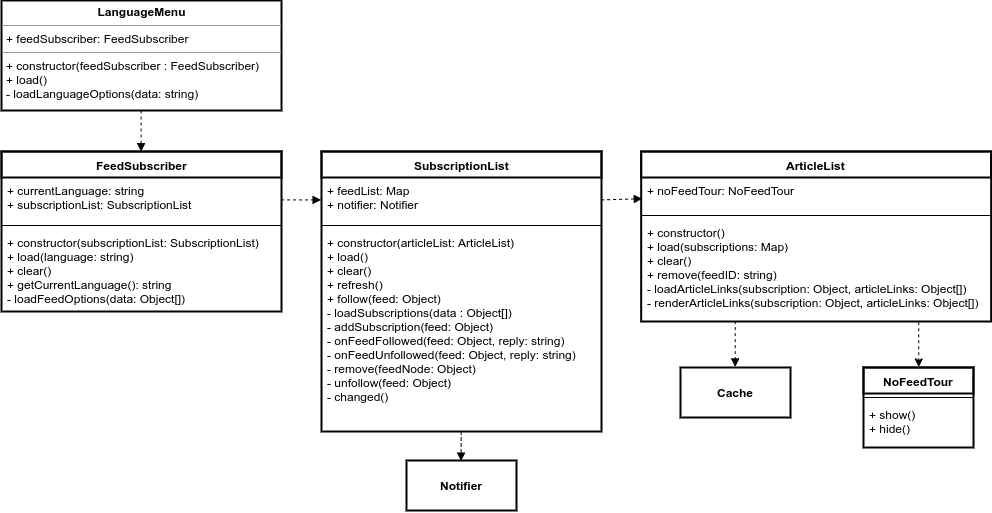
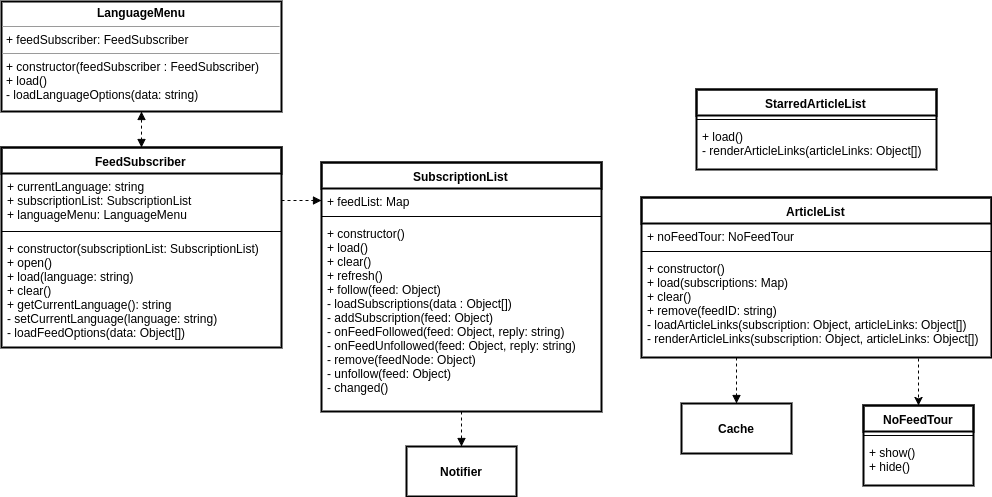
Updated subscription description.

diff --git a/doc/manual/design/architecture.md b/doc/manual/design/architecture.md
@@ -39,7 +39,7 @@ Both packages share a need to contact the Zeeguu API upon specific data requests
 ### Subscription
 ![Subscription UML](asset/subscription.png)
 
-The subscription package allows for modifying the user's feeds and listing the available articles for the feeds the user is currently subscribed to. The **LanguageMenu** class retrieves the available languages and requests FeedSubscriber  to update the list of available subscriptions whenever a particular language is selected. **FeedSubscriber** thus retrieves feed options and allows for subscribing to those feeds. Subscribing to a feed notifies SubscriptionList. **SubscriptionList** manages the list of all currently subscribed-to feeds and allows for removing a feed from that list. It uses the **Notifier** in order to inform the user of subscription problems (such as a failure to subscribe). A change to this class calls for a change to the ArticleList. This happens by firing an Event that ArticleList listenes to, with the changed data appended to the detail attribute of the Event. **ArticleList** manages a list of all possible articles to read, and uses the **Cache** class to do this efficiently. When there are no feeds to render article links for, is calls for the NoFeedTour object to show. The **NoFeedTour** class allows for showing a webpage styling that motivates the user to subscribe to more feeds.
+The subscription package allows for modifying the user's feeds and listing the available or starred articles for the feeds the user is currently subscribed. The **LanguageMenu** class retrieves the available languages and requests FeedSubscriber  to update the list of available subscriptions whenever a particular language is selected. **FeedSubscriber** thus retrieves feed options and allows for subscribing to those feeds. Subscribing to a feed notifies SubscriptionList. **SubscriptionList** manages the list of all currently subscribed-to feeds and allows for removing a feed from that list. It uses the **Notifier** in order to inform the user of subscription problems (such as a failure to subscribe). A change to this class calls for a change to the ArticleList. This happens by firing an Event that ArticleList listenes to, with the changed data appended to the detail attribute of the Event. **ArticleList** manages a list of all possible articles to read, and uses the **Cache** class to do this efficiently. When there are no feeds to render article links for, it calls for the NoFeedTour object to `show`. The **NoFeedTour** class allows for showing a webpage styling that motivates the user to subscribe to more feeds. Finally, the **StarredArticleList** retrieves the list of starred articles when requested to load and then renders this content into the list of starred articles. Many classes make use of the static **ZeeguuRequests** and **UserActivityLogger** class, but in order to improve readability of the diagram it has not been included.
 
 ### Translation
 ![Translation UML](asset/translation.png)
